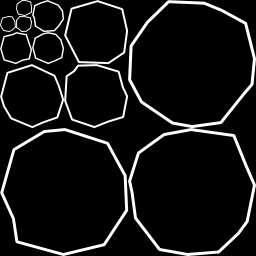
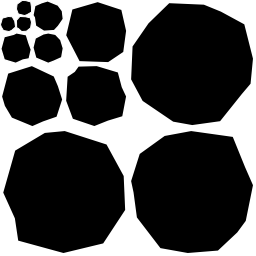
Centred the bullet firing location around the ship (after I shifted the sprite to centre around the position of the ship. Also changed asteroids background colour to black, with transparent surroundings. I like that libgdx seems to handle the transparency with ease.

Changed region(s): [[0.0, 0.0, 1.0, 1.0]]

diff --git a/desktop/src/com/serwylo/peter/retrowars/asteroids/Ship.java b/desktop/src/com/serwylo/peter/retrowars/asteroids/Ship.java
@@ -135,7 +135,7 @@ public class Ship extends Actor
 	private void fire()
 	{
 		Bullet bullet = new Bullet( 
-			new Vector2( this.position.x + this.shipSprite.getWidth() / 2, this.position.y + this.shipSprite.getHeight() / 2 ), 
+			new Vector2( this.position.x, this.position.y ), 
 			this.velocity, 
 			this.orientation 
 		);
